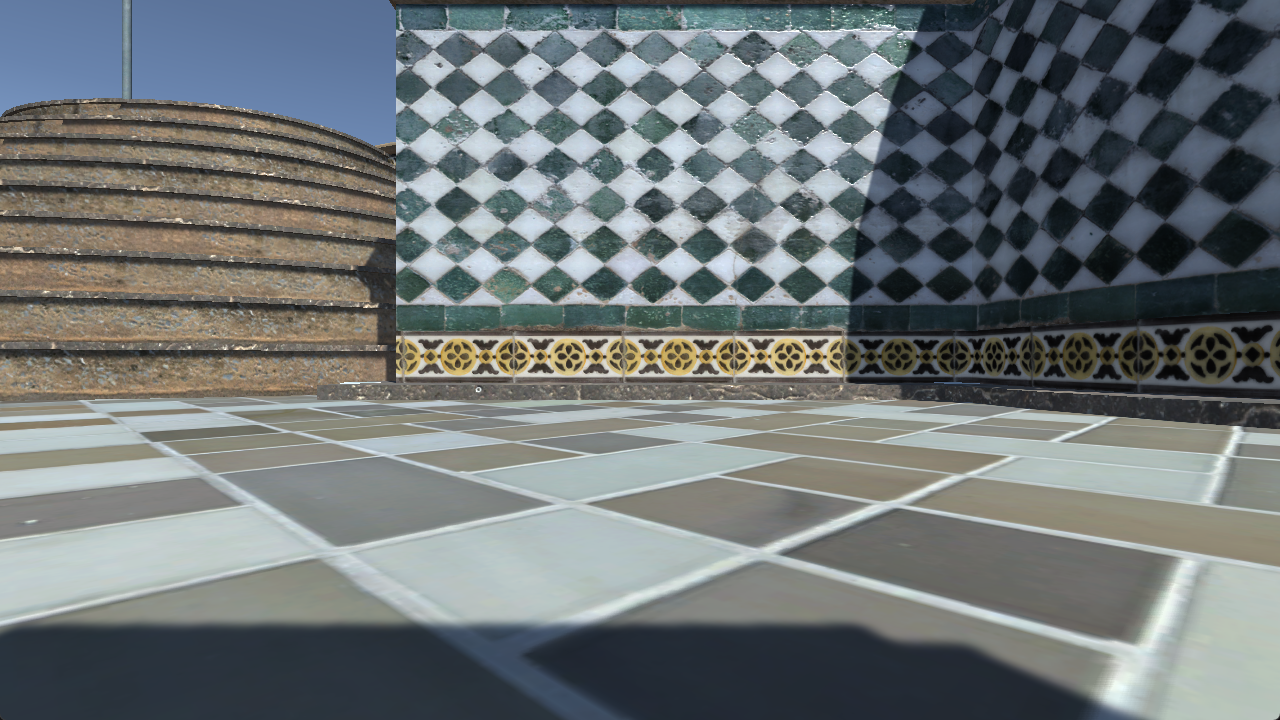
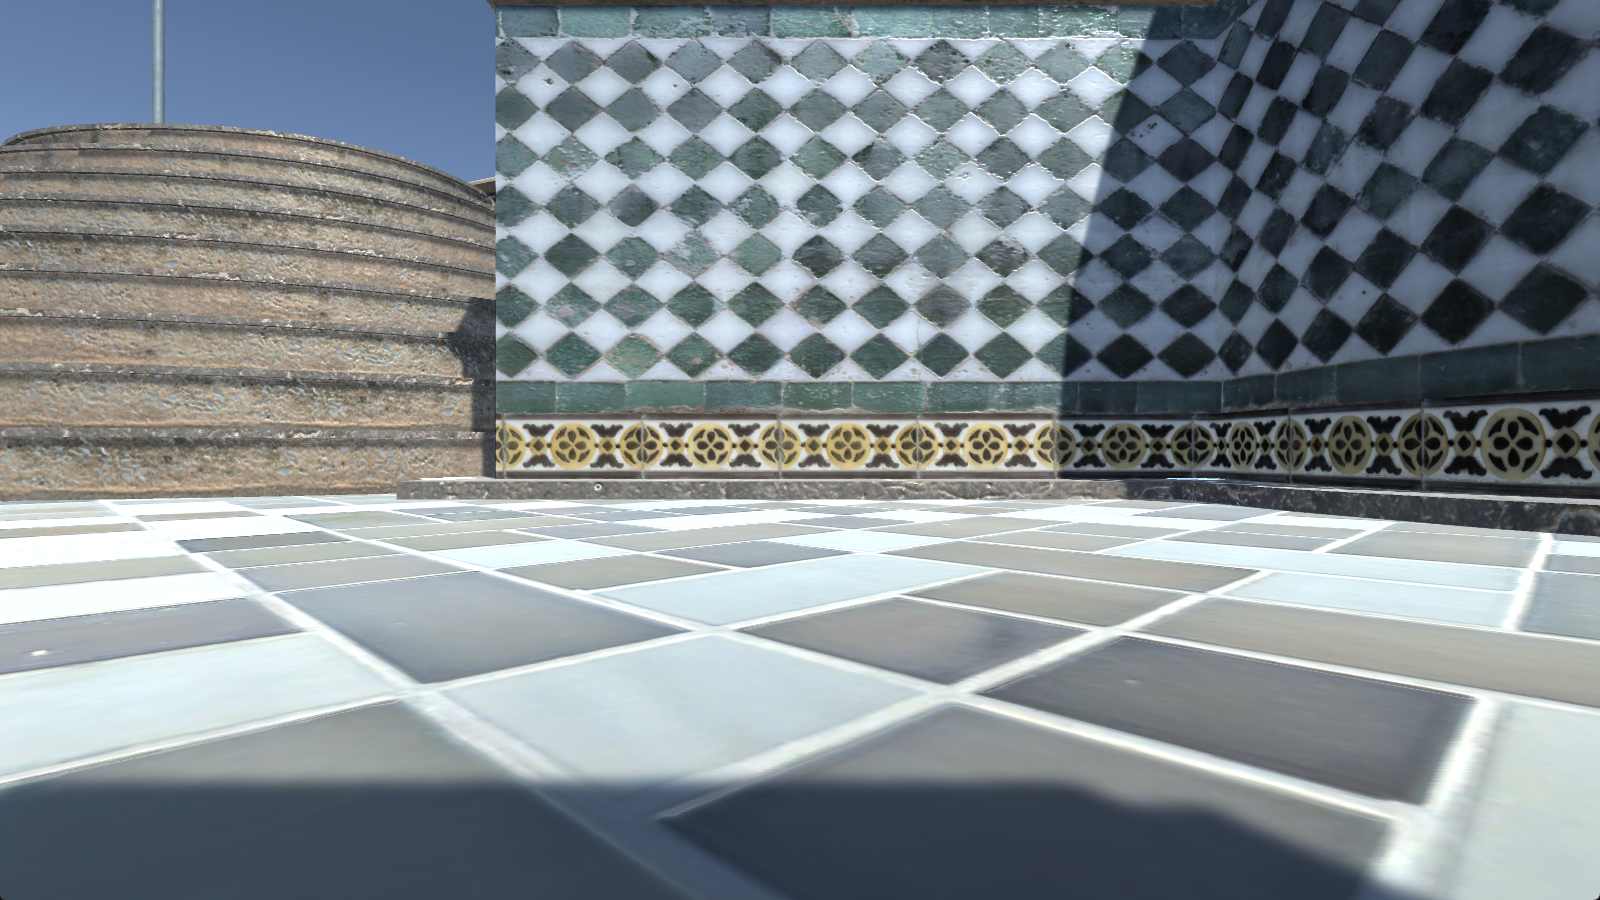
Update project showcase

diff --git a/README.md b/README.md
@@ -55,7 +55,7 @@ flowchart LR
 ```
 
 ## Nasıl denenir
-1. [Releases](../../releases) sayfasından `ROVControlStation-Windows.zip` dosyasını indirip `su altı control.exe` ile başlat.
+1. [Releases](../../releases) sayfasından `ROVControlStation-Windows.zip` dosyasını indirip `ROVControlStation.exe` ile başlat.
 2. **simulasyon** düğmesiyle donanım gerektirmeyen simülasyon sahnesine geç. Bir Xbox/PlayStation kumandası takılıysa aracı sürebilirsin.
 3. Gerçek araçla çalışırken COM numarasını girip **Bağlan**'a bas, ardından ARM et.
 
